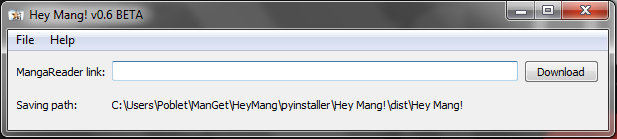
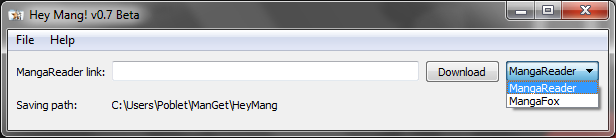
Forgot to change Mangareader to Manga only. Tee hee~!

diff --git a/programa.py b/programa.py
@@ -40,7 +40,7 @@ class HelloWindow(QtGui.QMainWindow):
         helpMenu.addAction(aboutOption)
         helpMenu.addAction(licenseOption)
 
-        self.label = QtGui.QLabel('MangaReader link:')
+        self.label = QtGui.QLabel('Manga link:')
         self.linkEdit = QtGui.QLineEdit()
         self.linkButton = QtGui.QPushButton('Download')
         self.pathLabel = QtGui.QLabel('Saving path:')
